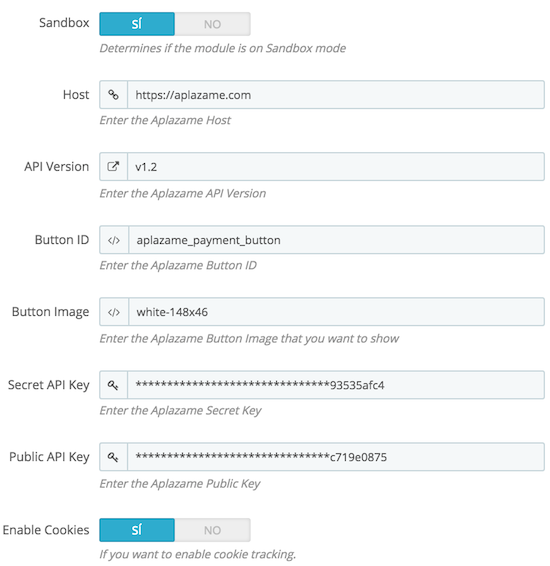
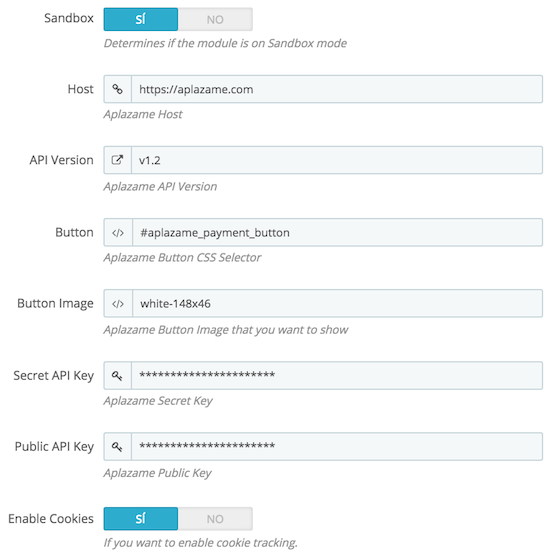
release 1.0.2

diff --git a/aplazame/aplazame.php b/aplazame/aplazame.php
@@ -64,9 +64,8 @@ Tu decides cuándo y cómo quieres pagar todas tus compras de manera fácil, có
         Configuration::updateValue('APLAZAME_HOST', 'https://aplazame.com');
         Configuration::updateValue('APLAZAME_API_VERSION', 'v1.2');
         Configuration::updateValue('APLAZAME_BUTTON_IMAGE', 'white-148x46');
-        Configuration::updateValue('APLAZAME_BUTTON_ID', 'aplazame_payment_button');
+        Configuration::updateValue('APLAZAME_BUTTON', '#aplazame_payment_button');
 
-        # modulos -> menu -> submenu -> posiciones de los modulos display Hedare -> trasladar modulo buscar aplazame
         return parent::install() &&
                 $this->registerHook('payment') &&
                 $this->registerHook('paymentReturn') &&
@@ -185,7 +184,7 @@ Tu decides cuándo y cómo quieres pagar todas tus compras de manera fácil, có
                         'col' => 4,
                         'type' => 'text',
                         'prefix' => '<i class="icon icon-link"></i>',
-                        'desc' => $this->l('Enter the Aplazame Host'),
+                        'desc' => $this->l('Aplazame Host'),
                         'name' => 'APLAZAME_HOST',
                         'label' => $this->l('Host'),
                     ),
@@ -193,7 +192,7 @@ Tu decides cuándo y cómo quieres pagar todas tus compras de manera fácil, có
                         'col' => 4,
                         'type' => 'text',
                         'prefix' => '<i class="icon icon-external-link"></i>',
-                        'desc' => $this->l('Enter the Aplazame API Version'),
+                        'desc' => $this->l('Aplazame API Version'),
                         'name' => 'APLAZAME_API_VERSION',
                         'label' => $this->l('API Version'),
                     ),
@@ -201,15 +200,15 @@ Tu decides cuándo y cómo quieres pagar todas tus compras de manera fácil, có
                         'col' => 4,
                         'type' => 'text',
                         'prefix' => '<i class="icon icon-code"></i>',
-                        'desc' => $this->l('Enter the Aplazame Button ID'),
-                        'name' => 'APLAZAME_BUTTON_ID',
-                        'label' => $this->l('Button ID'),
+                        'desc' => $this->l('Aplazame Button CSS Selector'),
+                        'name' => 'APLAZAME_BUTTON',
+                        'label' => $this->l('Button'),
                     ),
                     array(
                         'col' => 4,
                         'type' => 'text',
                         'prefix' => '<i class="icon icon-code"></i>',
-                        'desc' => $this->l('Enter the Aplazame Button Image that you want to show'),
+                        'desc' => $this->l('Aplazame Button Image that you want to show'),
                         'name' => 'APLAZAME_BUTTON_IMAGE',
                         'label' => $this->l('Button Image'),
                     ),
@@ -219,13 +218,13 @@ Tu decides cuándo y cómo quieres pagar todas tus compras de manera fácil, có
                         'prefix' => '<i class="icon icon-key"></i>',
                         'name' => 'APLAZAME_SECRET_KEY',
                         'label' => $this->l('Secret API Key'),
-                        'desc' => $this->l('Enter the Aplazame Secret Key'),
+                        'desc' => $this->l('Aplazame Secret Key'),
                     ),
                     array(
                         'col' => 4,
                         'type' => 'text',
                         'prefix' => '<i class="icon icon-key"></i>',
-                        'desc' => $this->l('Enter the Aplazame Public Key'),
+                        'desc' => $this->l('Aplazame Public Key'),
                         'name' => 'APLAZAME_PUBLIC_KEY',
                         'label' => $this->l('Public API Key'),
                     ),
@@ -265,7 +264,7 @@ Tu decides cuándo y cómo quieres pagar todas tus compras de manera fácil, có
             'APLAZAME_SANDBOX' => Configuration::get('APLAZAME_SANDBOX', null),
             'APLAZAME_HOST' => Configuration::get('APLAZAME_HOST', null),
             'APLAZAME_API_VERSION' => Configuration::get('APLAZAME_API_VERSION', null),
-            'APLAZAME_BUTTON_ID' => Configuration::get('APLAZAME_BUTTON_ID', null),
+            'APLAZAME_BUTTON' => Configuration::get('APLAZAME_BUTTON', null),
             'APLAZAME_SECRET_KEY' => Configuration::get('APLAZAME_SECRET_KEY', null),
             'APLAZAME_PUBLIC_KEY' => Configuration::get('APLAZAME_PUBLIC_KEY', null),
             'APLAZAME_BUTTON_IMAGE' => Configuration::get('APLAZAME_BUTTON_IMAGE', null),
@@ -305,7 +304,7 @@ Tu decides cuándo y cómo quieres pagar todas tus compras de manera fácil, có
             'aplazame_version' => ConfigurationCore::get('APLAZAME_API_VERSION', null),
             'aplazame_host' => Configuration::get('APLAZAME_HOST', null),
             'aplazame_public_key' => Configuration::get('APLAZAME_PUBLIC_KEY', null),
-            'aplazame_button_id' => Configuration::get('APLAZAME_BUTTON_ID', null),
+            'aplazame_button' => Configuration::get('APLAZAME_BUTTON', null),
             'aplazame_is_sandbox' => Configuration::get('APLAZAME_SANDBOX', null) ? 'true' : 'false',
             'aplazame_currency_iso' => $currency->iso_code,
             'aplazame_cart_total' => self::formatDecimals($params['cart']->getOrderTotal()),
@@ -473,15 +472,7 @@ Tu decides cuándo y cómo quieres pagar todas tus compras de manera fácil, có
         self::formatDecimals();
 
         $this->assignSmartyVars(array(
-            'data_type' => 'widget',
-            'data_skin' => 'select',
-            'product_price' => self::formatDecimals($product->getPrice(true, null, 2)),
-            'currency_iso' => 'EUR',
-            'country_iso' => 'ES',
-            'data_locale' => 'ES_cat',
-            'quantity_wanted' => 'quantity_wanted',
-            'minus_button' => '.product_quantity_down',
-            'plus_button' => '.product_quantity_up',
+            'product_price' => self::formatDecimals($product->getPrice(true, null, 2))
         ));
         return $this->display(__FILE__, 'views/templates/hook/product.tpl');
     }

diff --git a/README.md b/README.md
@@ -8,6 +8,11 @@
 2. Go to the PrestaShop administration page, and then go to **Modules** > **Modules**.
 3. **Add new module** and select the `aplazame.latest.zip` file from your computer.
 
+### Update
+
+1. **Install**
+2. **Reset** the module.
+
 ### Configure
 
 ![config](docs/config.png)
@@ -15,7 +20,7 @@
 * **Sandbox**: Determines if the module is on Sandbox mode.
 * **Host**: Aplazame host `https://aplazame.com`
 * **API Version**: The latest version is `v1.2`
-* **Button ID**: The DOM ID for your payment method on the cart. The default ID is `aplazame_payment_button`
+* **Button**: The CSS Selector for Aplazame payment. The default selector is `#aplazame_payment_button`
 * **Button Image**: [Select the image](http://docs.aplazame.com/#buttons) that appear as payment method on you cart. The default image is `white-148x46`.
 * **Secret API Key**: The Secret Key provided by Aplazame. You cannot share this key with anyone!!
 * **Public API Key**: The Public Key provided by Aplazame. 
